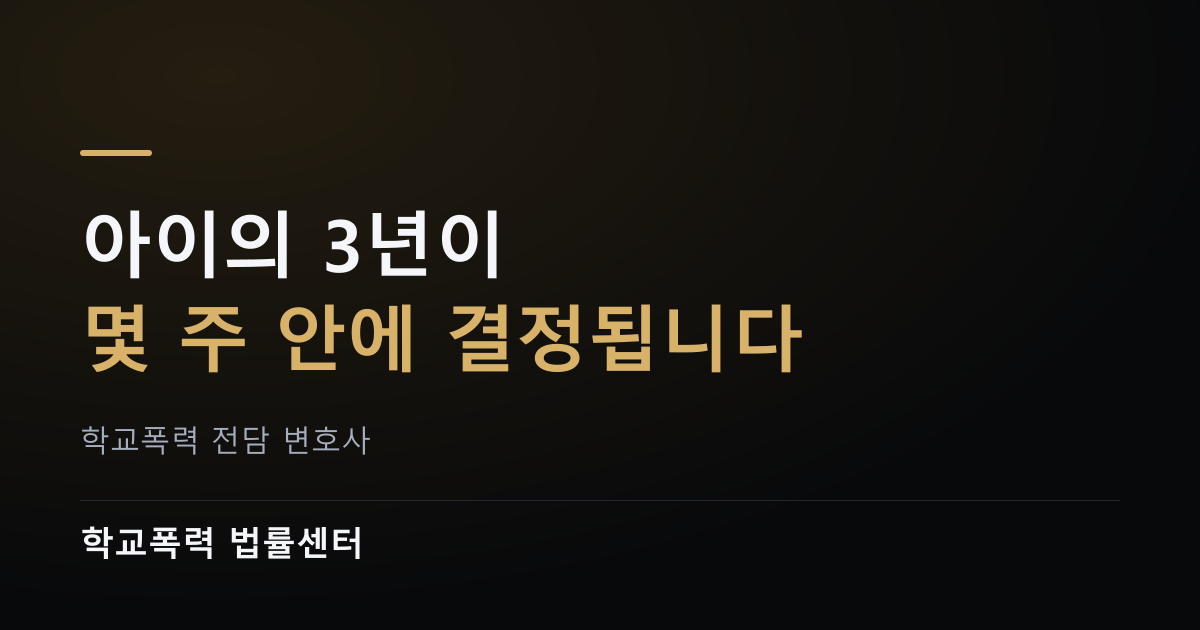
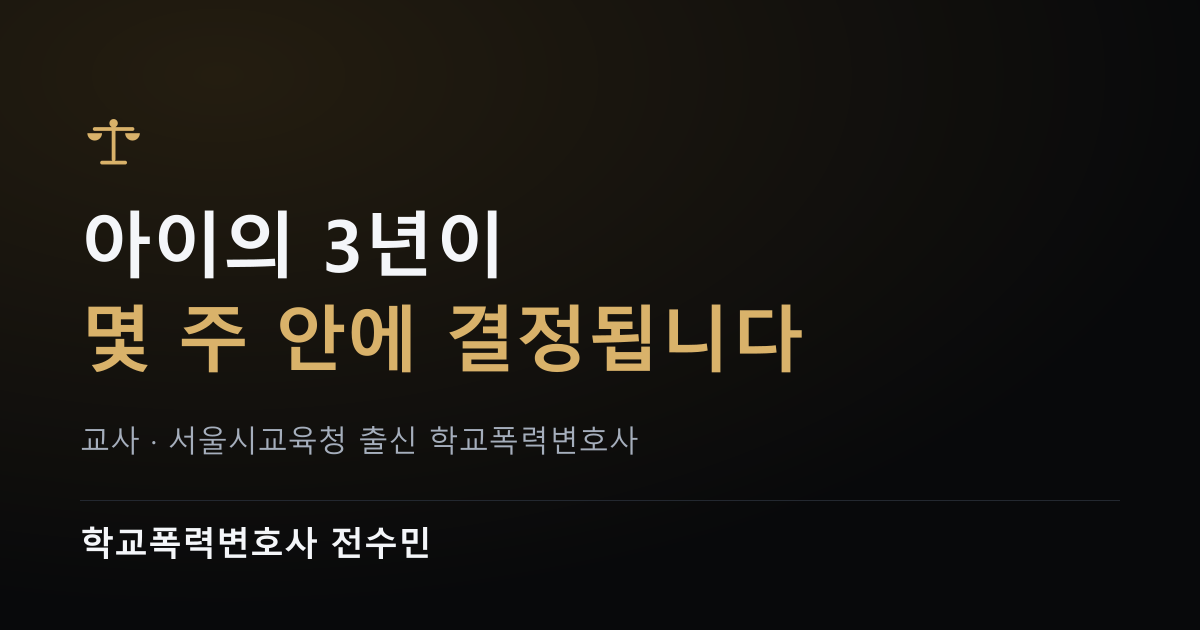
전수민 변호사 실제 정보 반영 및 학교폭력변호사 키워드 전환
- 홍길동/법무법인 OOO/02-000-0000 등 자리표시자를 실제 정보로 교체
- 브랜드명을 "학교폭력변호사 전수민"으로 변경 (title·메타·JSON-LD 전파)
- PREVIEW_MODE 해제 — 검색엔진 색인 허용
- 로고·파비콘·OG 이미지를 정의의 저울(골드/검정)로 교체

Changed region(s): [[0.0617, 0.6635, 0.5242, 0.7238], [0.185, 0.8143, 0.37, 0.9048], [0.0617, 0.181, 0.1233, 0.2714]]

diff --git a/src/consts.ts b/src/consts.ts
@@ -1,7 +1,8 @@
 /**
  * 사이트 전역 설정.
  * ─────────────────────────────────────────────
- * ⚠ 실제 정보로 교체가 필요한 값은 모두 TODO 로 표시했습니다.
+ * 사무소·변호사 정보는 school-violence.kr 공개 정보를 기준으로 채웠습니다.
+ * 아직 확인이 필요한 값에만 TODO 를 남겨두었습니다.
  * 이 파일 하나만 고치면 사이트 전체(메타태그·구조화데이터·푸터·상담버튼)에 반영됩니다.
  */
 
@@ -9,65 +10,63 @@
  * ⚠ 미리보기 모드 스위치
  * ─────────────────────────────────────────────
  * true  = 검색엔진 차단. 모든 페이지에 noindex, robots.txt 로 전체 수집 거부.
- *         사무소 정보가 아직 가짜(02-000-0000, 홍길동)인 상태로 색인되는 것을 막습니다.
  * false = 검색엔진 공개.
  *
- * 아래 세 가지가 끝나면 false 로 바꾸고 다시 배포하세요.
- *   1. 사무소 실제 정보 입력 (아래 SITE / CONTACT / ADDRESS / ATTORNEY)
- *   2. 칼럼·해결사례 법률 내용 검토
- *   3. 도메인 연결 후 SITE_URL 변경
+ * 아래 두 가지가 끝나면 false 로 바꾸고 다시 배포하세요.
+ *   1. 칼럼·해결사례 법률 내용 검토 (현재 예시 성격의 글이 섞여 있습니다)
+ *   2. 도메인 연결 후 SITE_URL 변경
  */
-export const PREVIEW_MODE = true;
+export const PREVIEW_MODE = false;
 
 /**
  * 배포 도메인. 사이트맵/canonical/OG 태그의 기준이 됩니다. 끝에 슬래시 없이.
- * 지금은 Firebase 기본 주소. 도메인을 구입하면 이 값과 astro.config.mjs 를 함께 바꾸세요.
+ * 지금은 Firebase 기본 주소. 도메인을 연결하면 이 값과 astro.config.mjs 를 함께 바꾸세요.
  */
 export const SITE_URL = 'https://school-violence-b29b3.web.app';
 
 export const SITE = {
-  /** 브랜드명 (헤더·푸터·JSON-LD) */
-  name: '학교폭력 법률센터', // TODO
+  /** 브랜드명 (헤더·푸터·JSON-LD). 주요 타깃 키워드를 앞에 둡니다. */
+  name: '학교폭력변호사 전수민',
   /** 법인 정식 명칭 */
-  legalName: '법무법인 OOO', // TODO
+  legalName: '법무법인 정향',
   /** 홈 <title> 에 붙는 한 줄 설명 */
-  tagline: '학교폭력 전담 변호사',
+  tagline: '학교폭력변호사',
   /** 홈 메타 디스크립션 (한글 기준 70~90자 권장 — 넘으면 검색결과에서 잘립니다) */
   description:
-    '학교폭력 사건만 집중적으로 다루는 변호사가 학폭위 대응, 조치 불복 행정심판·행정소송, 피해학생 보호조치까지 전 과정을 함께합니다. 초기 대응이 결과를 바꿉니다.',
+    '학교폭력변호사 전수민. 교사·서울시교육청 전담 변호사 출신이 학폭위 대응부터 조치 불복 행정심판·행정소송, 피해학생 보호조치까지 전 과정을 맡습니다. 초기 대응이 결과를 바꿉니다.',
   locale: 'ko_KR',
   lang: 'ko',
 } as const;
 
 export const CONTACT = {
   /** 표시용 전화번호 */
-  phone: '02-000-0000', // TODO
+  phone: '010-8304-9490',
   /** tel: 링크용 (숫자만) */
-  phoneHref: '+8220000000', // TODO
+  phoneHref: '+821083049490',
   /** 카카오톡 채널 상담 링크. 없으면 빈 문자열 '' 로 두면 버튼이 숨겨집니다. */
-  kakao: 'https://pf.kakao.com/_xxxxxxx', // TODO
-  email: 'contact@example.com', // TODO
+  kakao: '', // TODO: 카카오톡 채널이 있으면 주소 입력
+  email: 'soomin.jeon0@gmail.com',
   /** 상담 가능 시간 (JSON-LD openingHours 에도 사용) */
   hours: '평일 09:00 – 18:00',
 } as const;
 
 export const ADDRESS = {
-  street: '서초구 서초대로 000, 0층', // TODO
-  city: '서울특별시', // TODO
-  region: '서울', // TODO
-  postalCode: '06000', // TODO
+  street: '서초구 서초대로78길 5 대각빌딩 17층',
+  city: '서울특별시',
+  region: '서울',
+  postalCode: '06620',
   country: 'KR',
-  /** 지도 표시용 좌표 (선택). 모르면 그대로 두거나 null 로 설정 */
-  lat: 37.4923,
-  lng: 127.0292,
+  /** 지도 표시용 좌표 (대각빌딩 대략 위치) */
+  lat: 37.4934,
+  lng: 127.0272,
 } as const;
 
 /** 대표 변호사 정보 — Attorney 구조화 데이터에 사용 */
 export const ATTORNEY = {
-  name: '홍길동', // TODO
-  jobTitle: '대표변호사',
+  name: '전수민',
+  jobTitle: '파트너변호사',
   /** 약력 한 줄 */
-  bio: '학교폭력 사건 전담. 학교폭력대책심의위원회 대응 및 조치 불복 사건을 주로 수행합니다.', // TODO
+  bio: '고등학교 교사와 서울시교육청 상근 변호사를 거친 학교폭력변호사. 학폭위 대응과 조치 불복을 중심으로 소년사건, 교원징계, 아동학대, 교육활동침해 사건을 전담합니다.',
   /** 프로필 사진 경로 (public 기준). 없으면 '' */
   photo: '/images/attorney-portrait.webp',
   /** 첫 화면에 쓰는 컷 */
@@ -75,21 +74,18 @@ export const ATTORNEY = {
 } as const;
 
 /**
- * ⚠ 첫 화면 자격 스트립에 노출되는 항목.
+ * 첫 화면 자격 스트립에 노출되는 항목.
  * ─────────────────────────────────────────────
- * 아래 목록은 보내주신 위촉장 파일명에서 **추정**한 것입니다.
- * 공식 명칭·기관명이 실제와 다를 수 있고, 변호사 광고 규정상
- * 허위·과장으로 오인될 표현은 문제가 되므로 반드시 확인 후 확정해 주세요.
- *
- * 현재 위촉 중인 것과 과거 이력을 구분해야 한다면 label 에 "前" 을 붙이세요.
+ * 위촉장 원본과 school-violence.kr 공개 약력을 대조해 확정한 목록입니다.
+ * 현재 위촉 중인 것과 과거 이력을 구분해야 하면 label 에 "前" 을 붙이세요.
  * 항목을 지우려면 그냥 줄을 삭제하면 됩니다.
  */
 export const CREDENTIALS = [
-  { label: '교육부 위촉', detail: '학교폭력 관련 위원' }, // TODO: 정확한 위원회 명칭
-  { label: '서울시교육청', detail: '학교폭력 사안처리지원단' },
-  { label: '서울시교육청', detail: '교권보호위원회 위원' },
+  { label: '교육부', detail: '학교폭력 사안처리 가이드북 집필위원' },
+  { label: '서울시교육청', detail: '학교폭력 사안처리 지원단 위원' },
+  { label: '서울시교육청', detail: '교권보호위원' },
   { label: '대한변호사협회', detail: '연수 강사' },
-  { label: '서울지방경찰청', detail: '감사장 수여' },
+  { label: '前 서울시교육청', detail: '상근 변호사 (2012–2016)' },
 ] as const;
 
 /**

diff --git a/public/admin/index.html b/public/admin/index.html
@@ -4,7 +4,7 @@
     <meta charset="utf-8" />
     <meta name="viewport" content="width=device-width, initial-scale=1" />
     <meta name="robots" content="noindex, nofollow" />
-    <title>글 관리 · 학교폭력 법률센터</title>
+    <title>글 관리 · 학교폭력변호사 전수민</title>
   </head>
   <body>
     <!--
